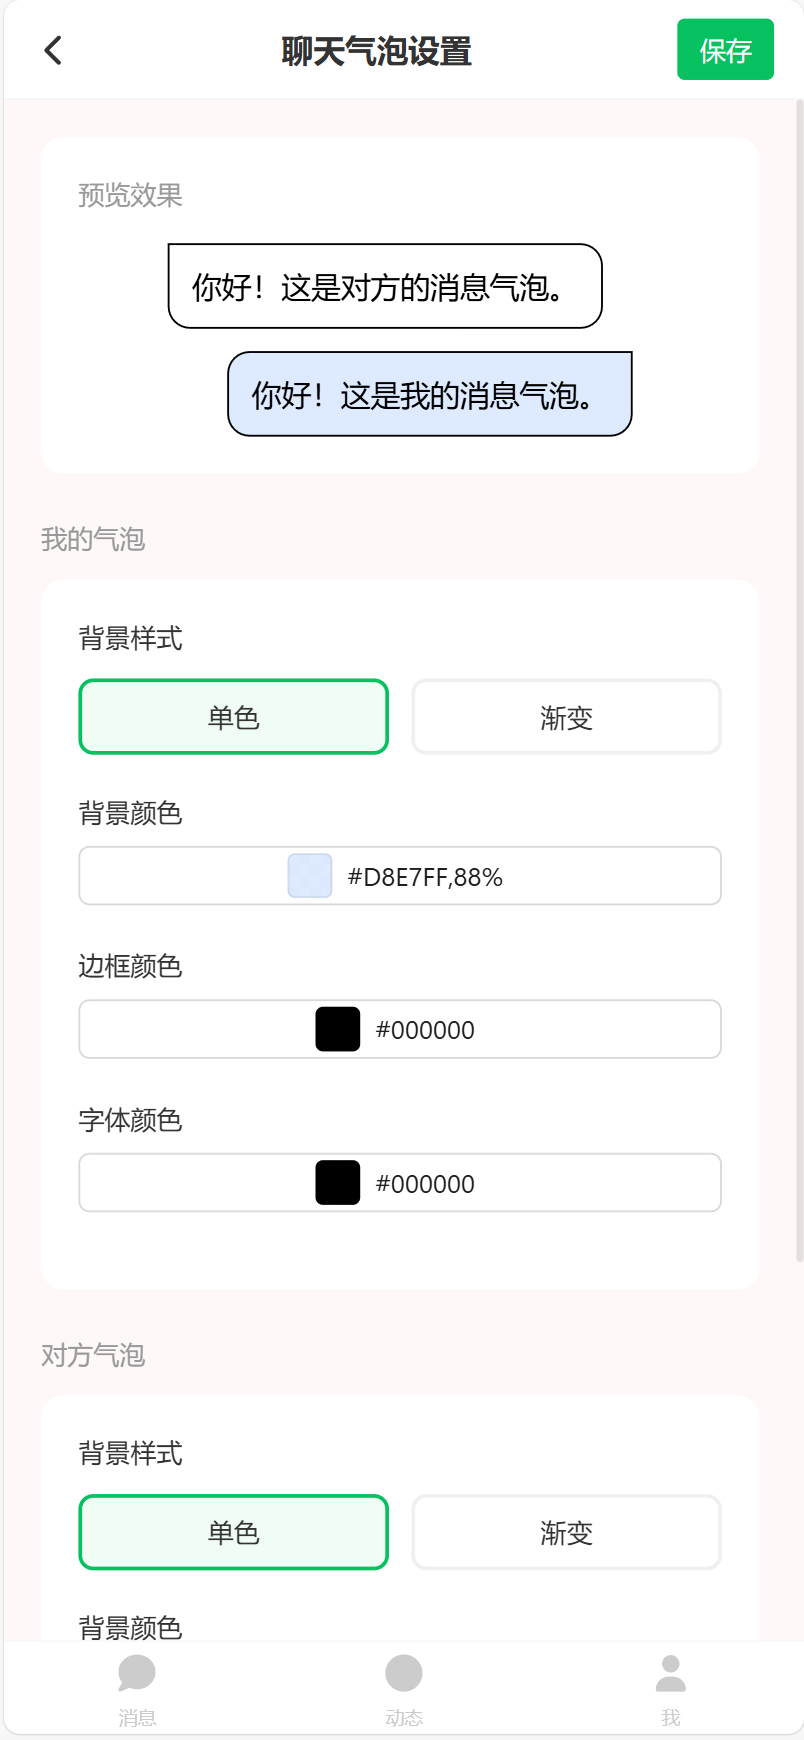
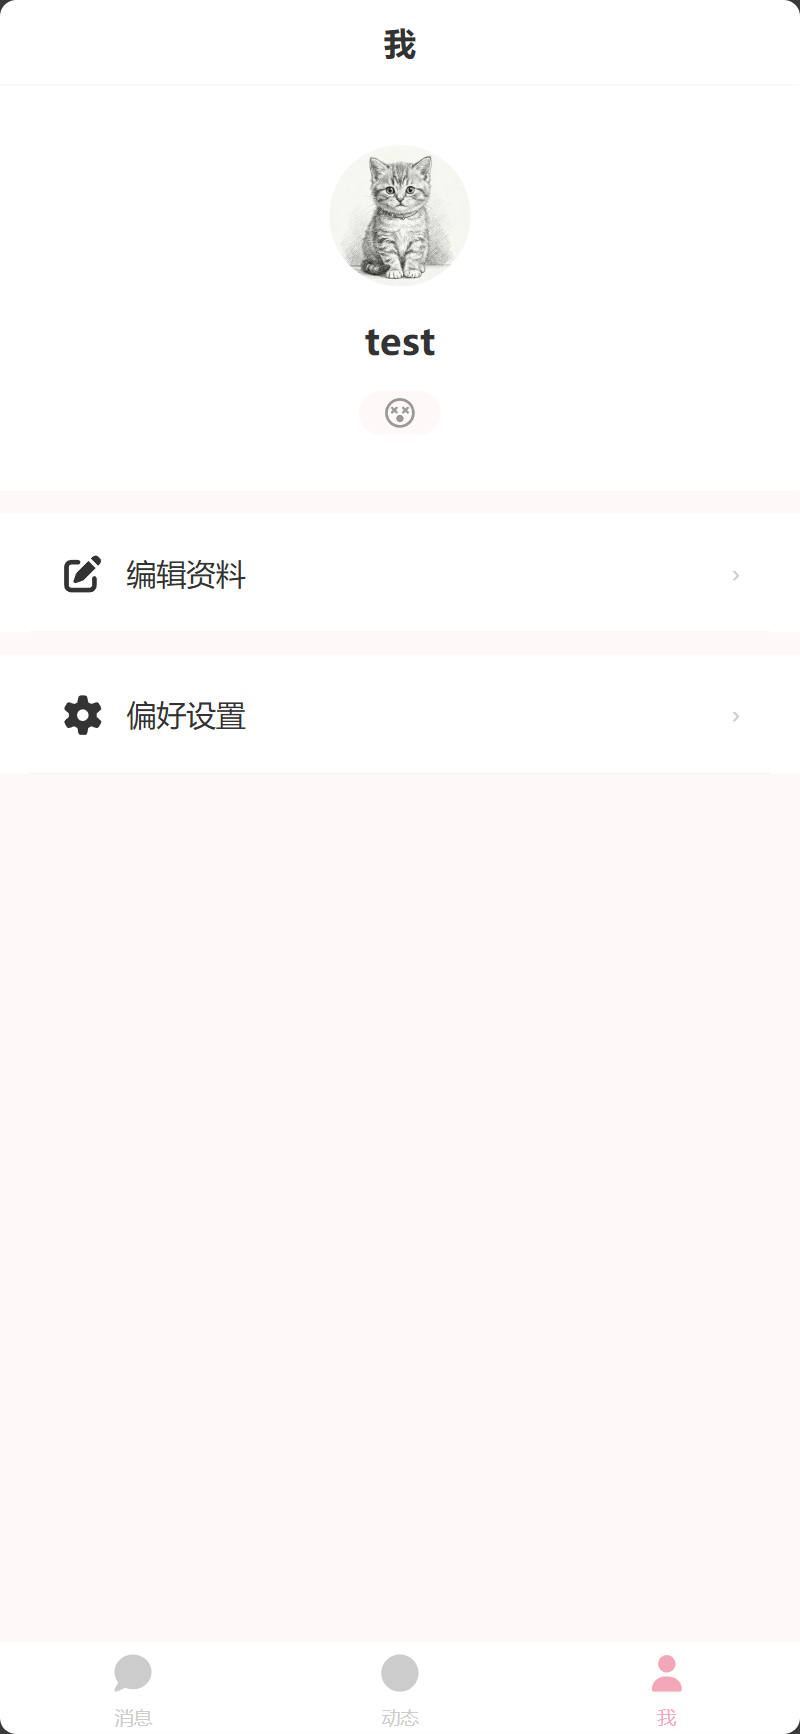
feat: Add new screenshots for messages, moments, personas, and settings bubble, and localize PWA manifest labels.

diff --git a/src/app/manifest.ts b/src/app/manifest.ts
@@ -14,18 +14,46 @@ export default function manifest(): MetadataRoute.Manifest {
         prefer_related_applications: false,
         screenshots: [
             {
+                src: '/screenshots/messages-screen.png',
+                sizes: '800x1734',
+                type: 'image/png',
+                form_factor: 'narrow',
+                label: '消息列表'
+            },
+            {
                 src: '/screenshots/chat-screen.png',
                 sizes: '800x1734',
                 type: 'image/png',
-                form_factor: 'narrow', // 手机竖屏
-                label: 'Chat interface with AI persona'
+                form_factor: 'narrow',
+                label: '聊天界面'
+            },
+            {
+                src: '/screenshots/moments-screen.png',
+                sizes: '800x1734',
+                type: 'image/png',
+                form_factor: 'narrow',
+                label: '朋友圈'
+            },
+            {
+                src: '/screenshots/personas-new-screen.png',
+                sizes: '800x1734',
+                type: 'image/png',
+                form_factor: 'narrow',
+                label: '创建角色'
             },
             {
                 src: '/screenshots/settings-screen.png',
                 sizes: '800x1734',
                 type: 'image/png',
                 form_factor: 'narrow',
-                label: 'Customizable chat settings'
+                label: '设置页面'
+            },
+            {
+                src: '/screenshots/settings-bubble-screen.png',
+                sizes: '800x1734',
+                type: 'image/png',
+                form_factor: 'narrow',
+                label: '气泡设置'
             }
         ],
         icons: [

diff --git a/README.md b/README.md
@@ -4,7 +4,15 @@
 
 Aura 是一个基于 Next.js 16 和 React 19 构建的客制化属性较强的 AI 聊天软件。
 
-![Chat Screen](public/screenshots/chat-screen.png)
+## 📸 界面截图
+
+| 消息列表 | 聊天界面 | 朋友圈 |
+|:---:|:---:|:---:|
+| ![消息列表](public/screenshots/messages-screen.png) | ![聊天界面](public/screenshots/chat-screen.png) | ![朋友圈](public/screenshots/moments-screen.png) |
+
+| 创建角色 | 设置页面 | 气泡设置 |
+|:---:|:---:|:---:|
+| ![创建角色](public/screenshots/personas-new-screen.png) | ![设置页面](public/screenshots/settings-screen.png) | ![气泡设置](public/screenshots/settings-bubble-screen.png) |
 
 ## 🚀 开发环境运行 (Development)
 
